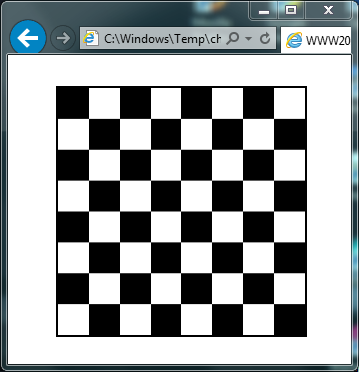
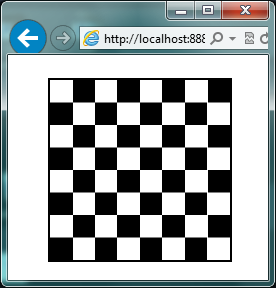
fixed chessboard orientation (upper left cell is white)

diff --git a/V0.5/chessboard.html b/V0.5/chessboard.html
@@ -12,7 +12,6 @@ html, body {
   padding: 0;
   margin: 0;
   height: 100%;
-  background-color: white; /* fix ie's procopia client transparent buffer background */
 }
 
 /* chessboard size, position and background */
@@ -28,14 +27,14 @@ html, body {
   background-size: 12.5% 100%;
   background-repeat: no-repeat;
   background-image:
-    repeating-linear-gradient(black, black 12.5%, white 12.5%, white 25%)
-  , repeating-linear-gradient(white, white 12.5%, black 12.5%, black 25%)
+    repeating-linear-gradient(white, white 12.5%, black 12.5%, black 25%)
   , repeating-linear-gradient(black, black 12.5%, white 12.5%, white 25%)
   , repeating-linear-gradient(white, white 12.5%, black 12.5%, black 25%)
   , repeating-linear-gradient(black, black 12.5%, white 12.5%, white 25%)
   , repeating-linear-gradient(white, white 12.5%, black 12.5%, black 25%)
   , repeating-linear-gradient(black, black 12.5%, white 12.5%, white 25%)
   , repeating-linear-gradient(white, white 12.5%, black 12.5%, black 25%)
+  , repeating-linear-gradient(black, black 12.5%, white 12.5%, white 25%)
   ;
   background-position: 0 0, 14.286% 0, 28.571% 0, 42.857% 0, 57.143% 0, 71.428% 0, 85.714% 0, 100% 0;
 }
@@ -47,21 +46,21 @@ html, body {
   font-size: 5vmin;
   position: absolute;
   width: 80vmin;
-  font-family: Lucida Console, Courier, monospace;            /* fixed width font */
-  letter-spacing: calc(10vmin - 1ch);   /* char spacing = cell width - char width */
-  padding-left: calc(5vmin - 0.5ch);                      /* half of char spacing */
+  font-family: Lucida Console, Courier, monospace;
+  letter-spacing: calc(10vmin - 1ch);
+  padding-left: calc(5vmin - 0.5ch);
 }
  
 #chessboard:before {
-  top: -1.5em;                      /* positioned above chessboard */
+  top: -1.5em;
 }
 #chessboard:after {
-  top: calc(80vmin + 1vh + 0.33em); /* positioned under chessboard */
+  top: calc(80vmin + 1vh + 0.33em);
 }
 
 /* row numbers */
 #container:before, #container:after {
-  content: '1' '\A' '2' '\A' '3' '\A' '4' '\A' '5' '\A' '6' '\A' '7' '\A' '8';
+  content: '8' '\A' '7' '\A' '6' '\A' '5' '\A' '4' '\A' '3' '\A' '2' '\A' '1';
   color: black;
   font-size: 5vmin;
   line-height: 10vmin;

diff --git a/V0.4/chessboard.html b/V0.4/chessboard.html
@@ -27,14 +27,14 @@ Tested with :
   background-size: 12.5% 100%;
   background-repeat: no-repeat;
   background-image:
-    repeating-linear-gradient(black, black 12.5%, white 12.5%, white 25%)
-  , repeating-linear-gradient(white, white 12.5%, black 12.5%, black 25%)
+    repeating-linear-gradient(white, white 12.5%, black 12.5%, black 25%)
   , repeating-linear-gradient(black, black 12.5%, white 12.5%, white 25%)
   , repeating-linear-gradient(white, white 12.5%, black 12.5%, black 25%)
   , repeating-linear-gradient(black, black 12.5%, white 12.5%, white 25%)
   , repeating-linear-gradient(white, white 12.5%, black 12.5%, black 25%)
   , repeating-linear-gradient(black, black 12.5%, white 12.5%, white 25%)
   , repeating-linear-gradient(white, white 12.5%, black 12.5%, black 25%)
+  , repeating-linear-gradient(black, black 12.5%, white 12.5%, white 25%)
   ;
   background-position: 0 0, 14.286% 0, 28.571% 0, 42.857% 0, 57.143% 0, 71.428% 0, 85.714% 0, 100% 0;
 }

diff --git a/V0.3/chessboard.html b/V0.3/chessboard.html
@@ -21,14 +21,14 @@ body {
   background-size: 12.5% 100%;
   background-repeat: no-repeat;
   background-image:
-    repeating-linear-gradient(black, black 12.5%, white 12.5%, white 25%)
-  , repeating-linear-gradient(white, white 12.5%, black 12.5%, black 25%)
+    repeating-linear-gradient(white, white 12.5%, black 12.5%, black 25%)
   , repeating-linear-gradient(black, black 12.5%, white 12.5%, white 25%)
   , repeating-linear-gradient(white, white 12.5%, black 12.5%, black 25%)
   , repeating-linear-gradient(black, black 12.5%, white 12.5%, white 25%)
   , repeating-linear-gradient(white, white 12.5%, black 12.5%, black 25%)
   , repeating-linear-gradient(black, black 12.5%, white 12.5%, white 25%)
   , repeating-linear-gradient(white, white 12.5%, black 12.5%, black 25%)
+  , repeating-linear-gradient(black, black 12.5%, white 12.5%, white 25%)
   ;
   background-position: 0 0, 14.286% 0, 28.571% 0, 42.857% 0, 57.143% 0, 71.428% 0, 85.714% 0, 100% 0;
 }

diff --git a/V0.2/chessboard.html b/V0.2/chessboard.html
@@ -22,8 +22,8 @@ body {
   background-size: 12.5% 100%;
   background-repeat: no-repeat;
   background-image:
-    repeating-linear-gradient(black, black 12.5%, white 12.5%, white 25%)
-  , repeating-linear-gradient(white, white 12.5%, black 12.5%, black 25%)
+    repeating-linear-gradient(white, white 12.5%, black 12.5%, black 25%)
+  , repeating-linear-gradient(black, black 12.5%, white 12.5%, white 25%)
   ;
   background-position: 0 0, 14.286% 0;
 }

diff --git a/V0.1/chessboard.html b/V0.1/chessboard.html
@@ -21,7 +21,7 @@ body {
   margin: 0;
   background-size: 12.5% 100%;
   background-repeat: no-repeat;
-  background-image: repeating-linear-gradient(black, black 12.5%, white 12.5%, white 25%);
+  background-image: repeating-linear-gradient(white, white 12.5%, black 12.5%, black 25%);
 }
 html, body {
   height: 100%;
